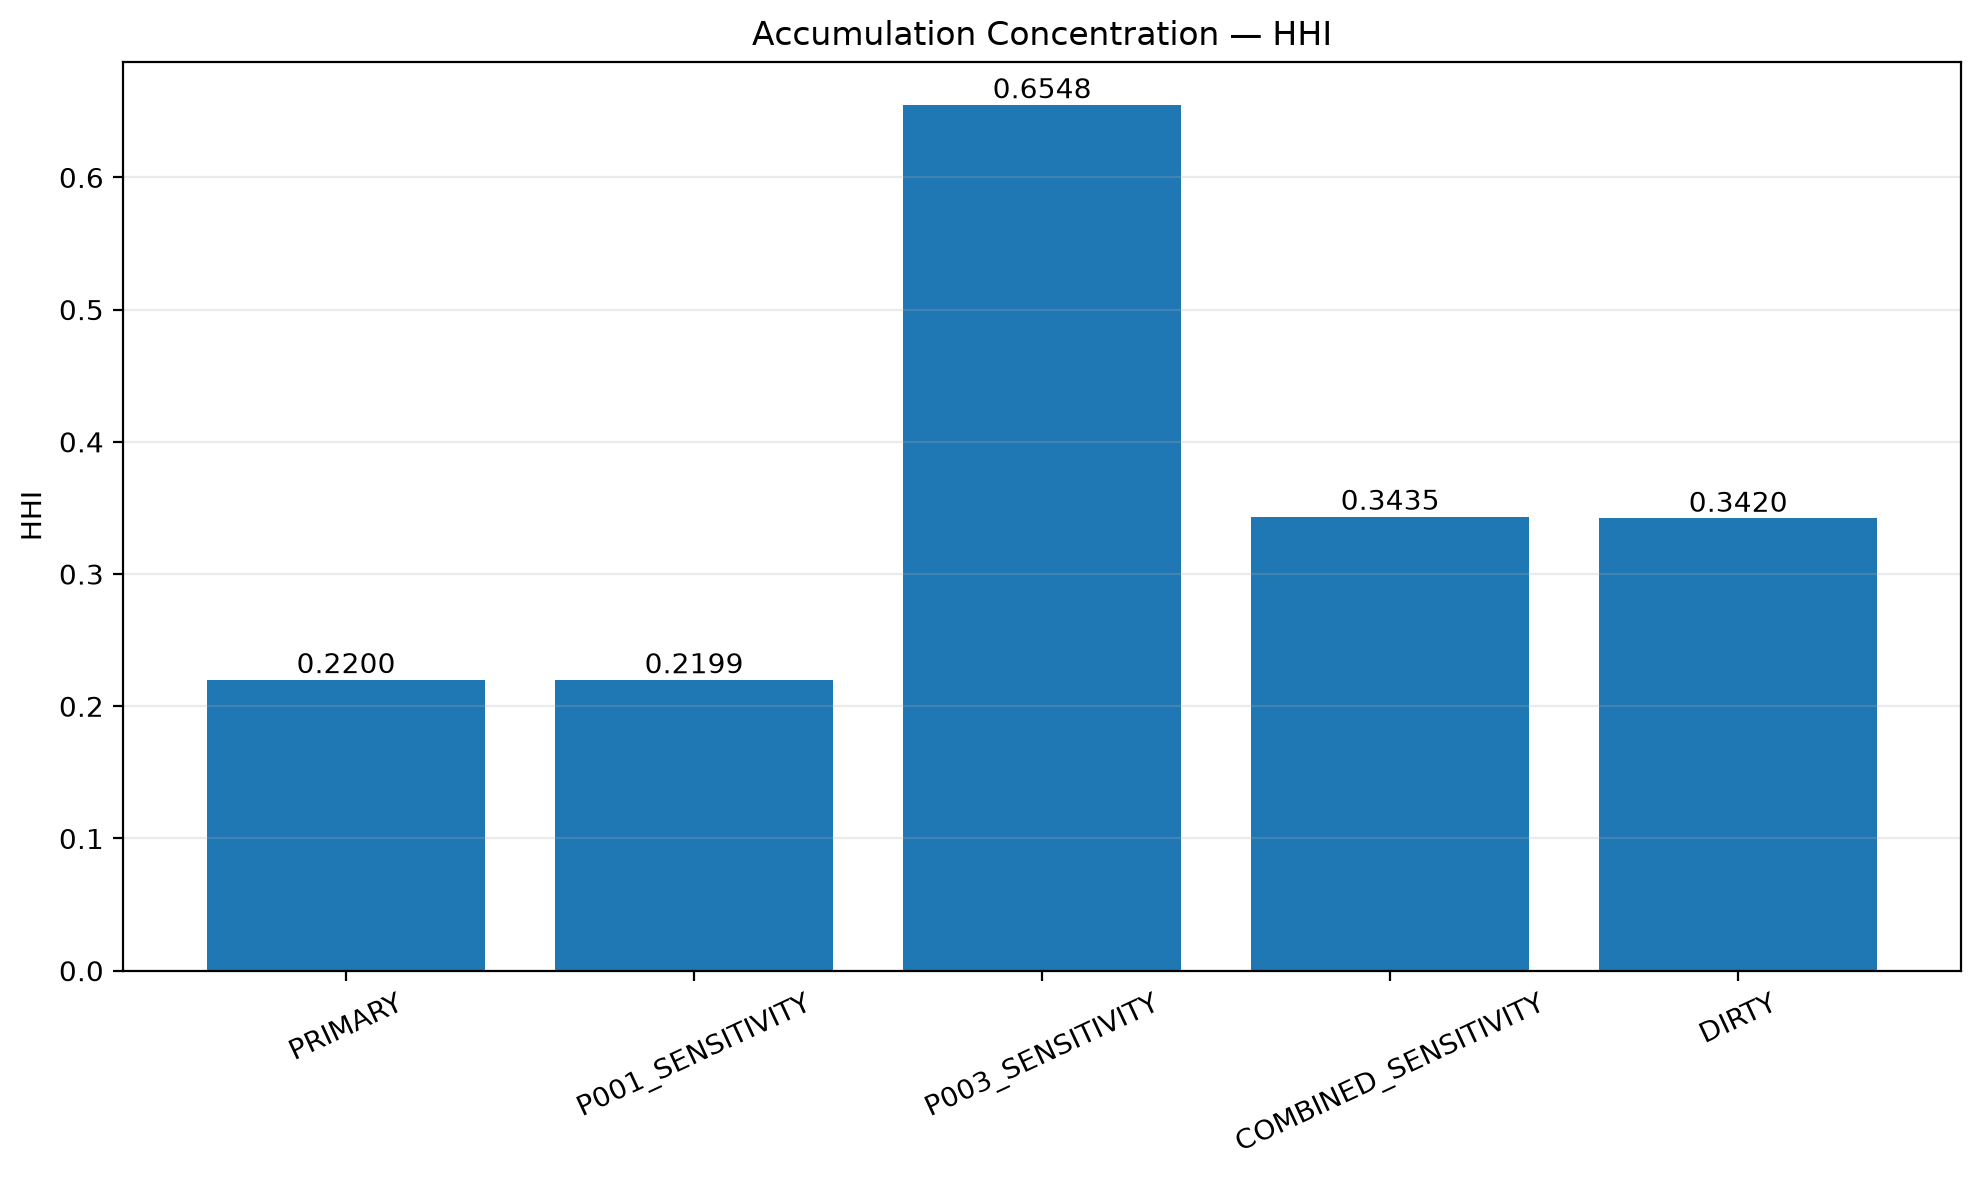
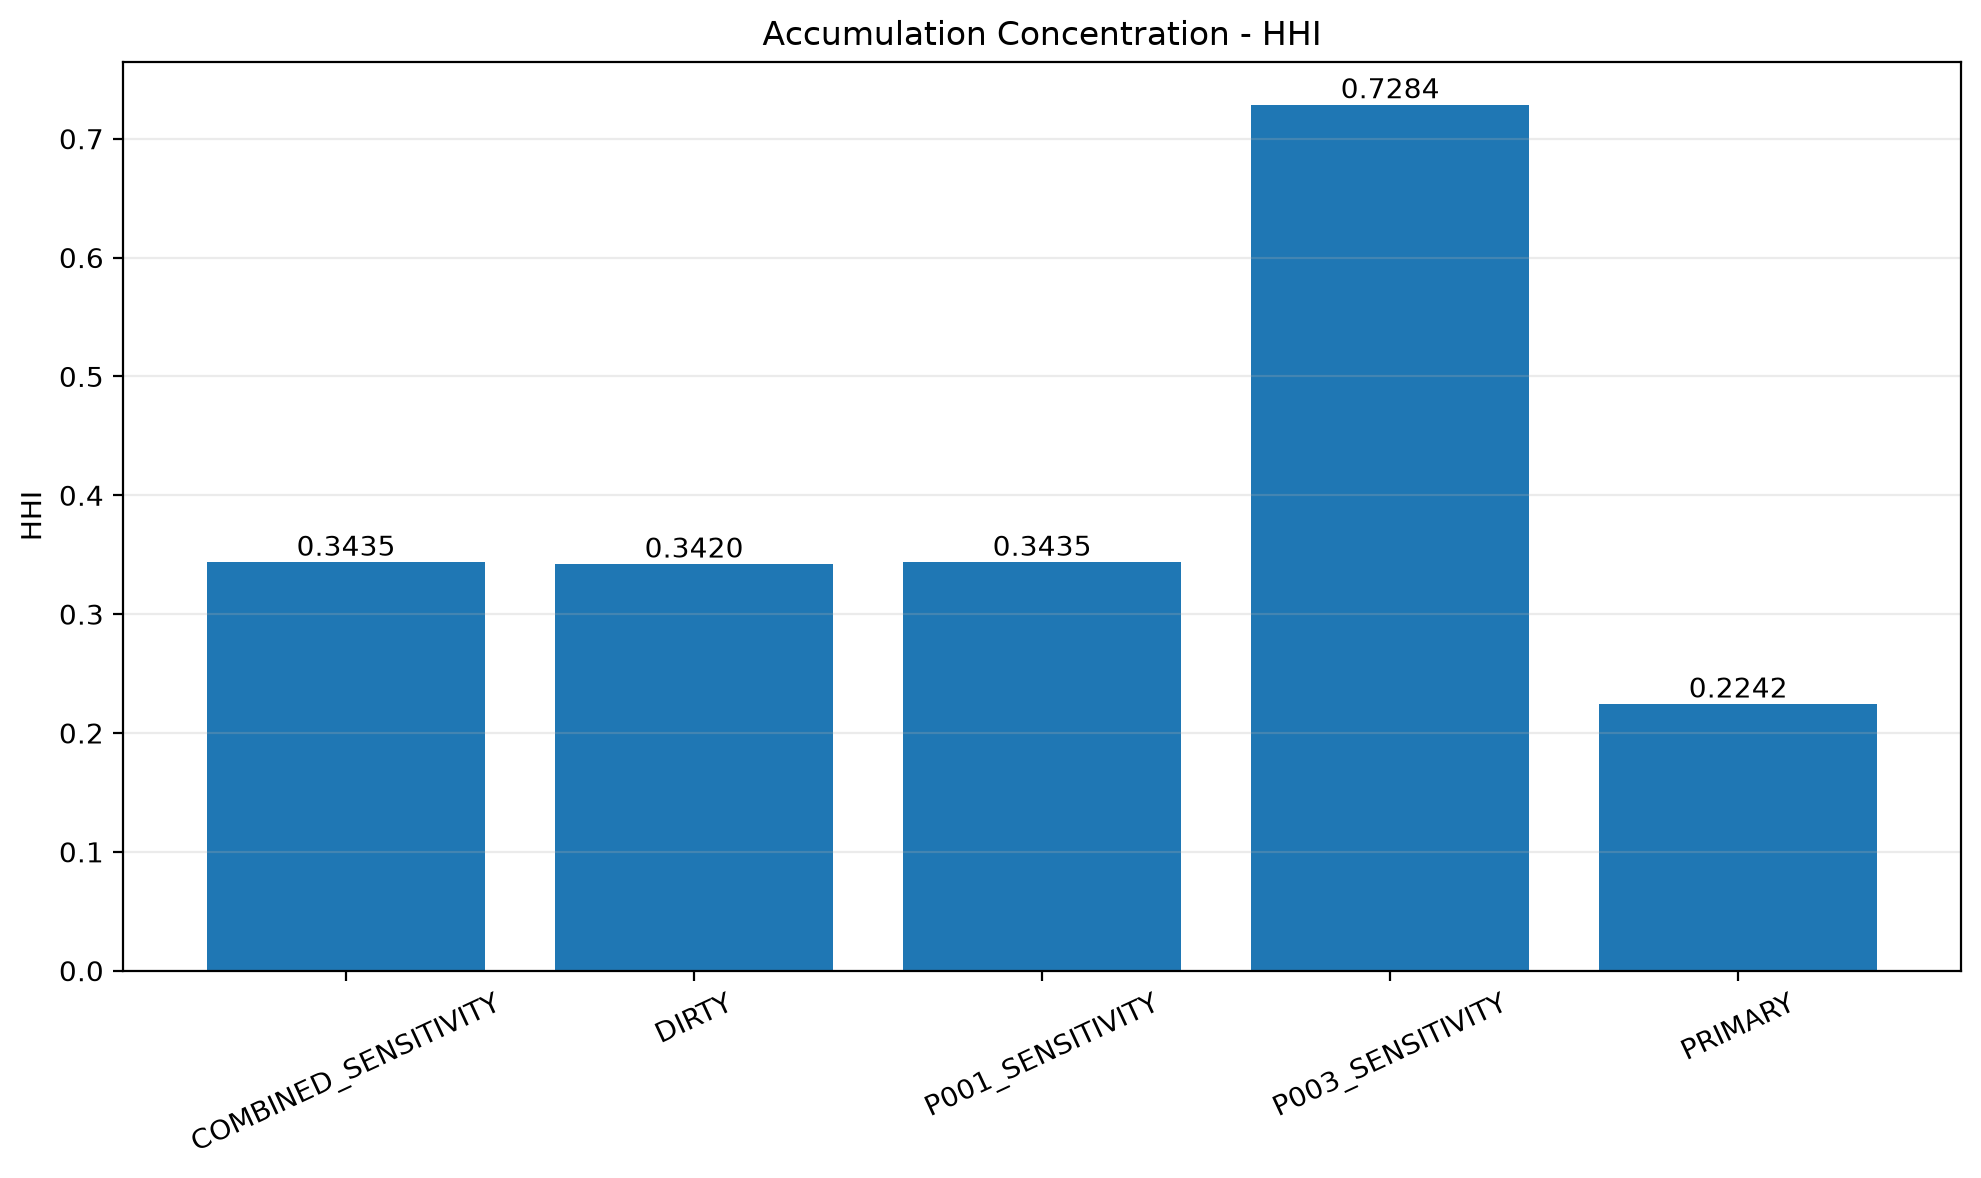
Update accumulation concentration artifacts

diff --git a/python/generate_figures.py b/python/generate_figures.py
@@ -132,7 +132,7 @@ fig, ax = plt.subplots(figsize=(10, 6))
 bars = ax.bar(df["scenario"], df["hhi"])
 
 ax.set_ylabel("HHI")
-ax.set_title("Accumulation Concentration — HHI")
+ax.set_title("Accumulation Concentration - HHI")
 ax.tick_params(axis="x", rotation=25)
 ax.grid(axis="y", alpha=0.25)
 
@@ -158,34 +158,42 @@ plt.close(fig)
 # 4b. Top-1 concentration
 # ============================================================
 
+top1_df = pd.read_csv(
+    OUTPUT_DIR / "concentration_comparison.csv"
+)
+
+top1_values = top1_df["top1_share"].astype(float) * 100
+
 fig, ax = plt.subplots(figsize=(10, 6))
 
 bars = ax.bar(
-    df["scenario"],
-    df["top1_pct"]
+    top1_df["scenario"],
+    top1_values
 )
 
 ax.set_ylabel("Top-1 cell share (%)")
-ax.set_title("Accumulation Concentration — Top-1 Cell")
+ax.set_title("Accumulation Concentration - Top-1 Cell")
 ax.set_ylim(0, 100)
 ax.tick_params(axis="x", rotation=25)
 ax.grid(axis="y", alpha=0.25)
 
-for bar, value in zip(bars, df["top1_pct"]):
+for bar, value in zip(bars, top1_values):
     ax.text(
         bar.get_x() + bar.get_width() / 2,
-        bar.get_height(),
+        value,
         f"{value:.2f}%",
         ha="center",
         va="bottom"
     )
 
 fig.tight_layout()
+
 fig.savefig(
     FIG_DIR / "04b_top1_concentration.png",
-    dpi=200,
+    dpi=150,
     bbox_inches="tight"
 )
+
 plt.close(fig)
 
 
